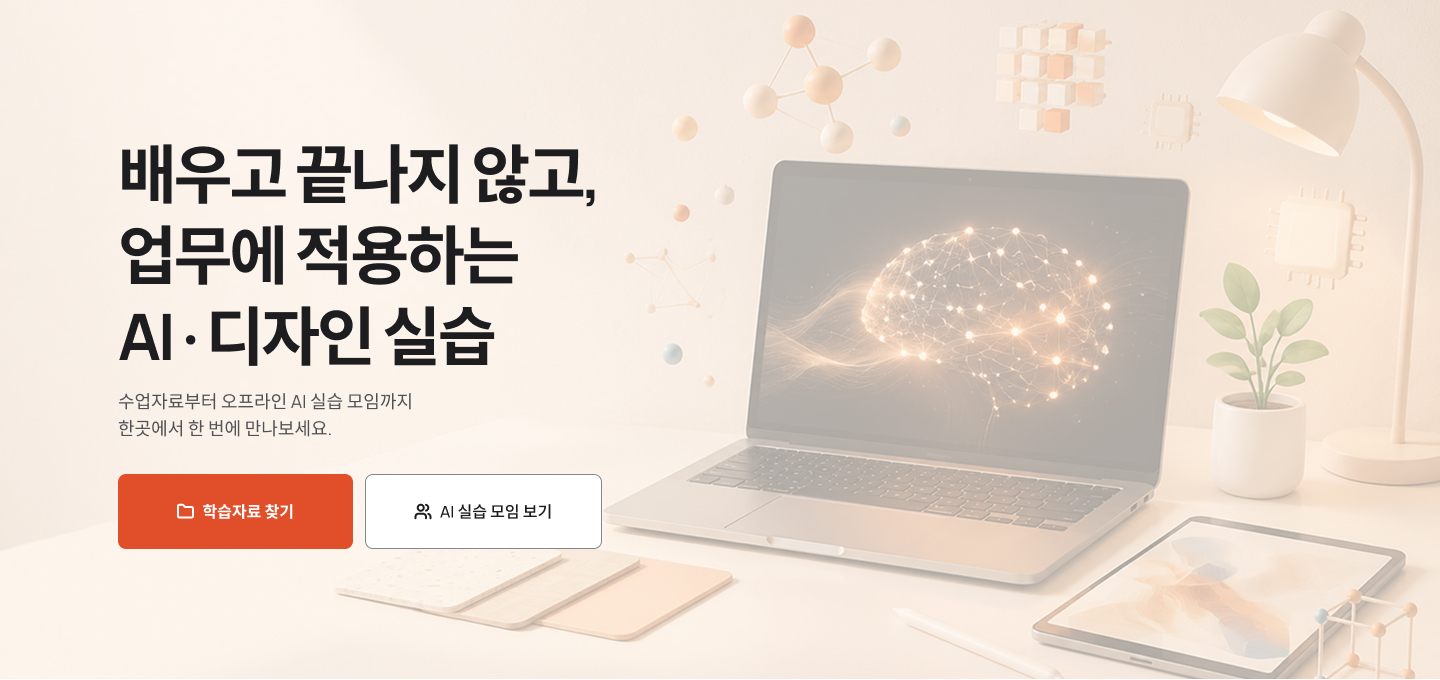
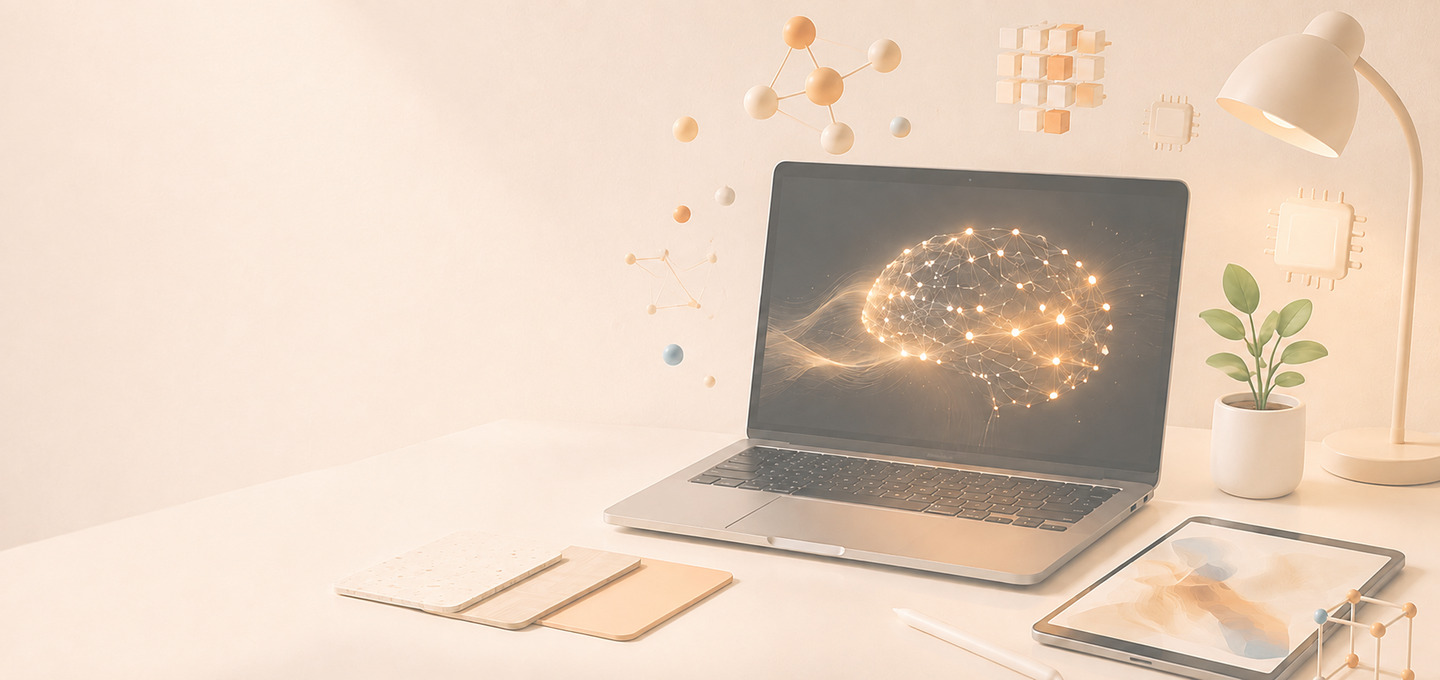
Add files via upload

diff --git a/script.js b/script.js
@@ -13,5 +13,5 @@ resourceList.innerHTML=groups.map(g=>`<section class="resource-card" id="${g[0]}
 const show=p=>{homePage.hidden=p!=='home';resourcesPage.hidden=p!=='resources';scrollTo(0,0);document.querySelector('.mobile-nav').classList.remove('show')};
 document.querySelectorAll('[data-page]').forEach(el=>el.onclick=()=>show(el.dataset.page));
 document.querySelectorAll('[data-scroll]').forEach(el=>el.onclick=()=>{show('home');setTimeout(()=>document.getElementById(el.dataset.scroll).scrollIntoView(),0)});
-document.querySelector('.hamb').onclick=()=>document.querySelector('.mobile-nav').classList.toggle('show');
+document.querySelector('.hamb').onclick=e=>{const menu=document.querySelector('.mobile-nav');const opened=menu.classList.toggle('show');e.currentTarget.textContent=opened?'✕':'☰';e.currentTarget.setAttribute('aria-expanded',String(opened));};
 const fix=document.createElement('link');fix.rel='stylesheet';fix.href='override.css';document.head.appendChild(fix);

diff --git a/override.css b/override.css
@@ -1,4 +1,4 @@
 .hero{background-image:url('assets/hero.jpg')}
 .resource-hero{background-image:url('assets/resources-hero.jpg')}
-.mobile-nav.show{display:flex}
+@media(max-width:760px){.mobile-nav{display:none}.mobile-nav.show{display:flex}}
 [hidden]{display:none!important}
